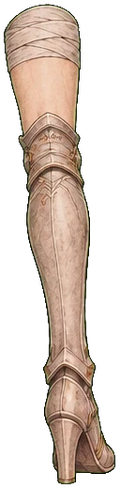
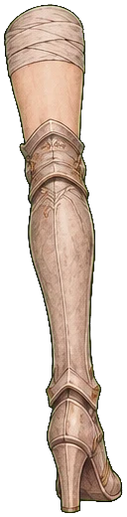
움직임 시험 C: 부위 뼈대 발끝을 뒷모습 그림 아래 끝(1100)에 맞춤
- 높이 기준을 '모든 부위의 아래 끝'(성검 끝)에서 '다리 그림 아래 끝'으로 바꿔
  다시 만듦(tools/anim_parts.py). 배율 0.938 → 0.995, 세라피나가 뒷모습과
  같은 바닥에 선다(성검 끝은 발보다 조금 아래).

check-scripts 42 ok · test_rules 88 통과 · 헤드리스 처음부터 1경로(--nosave --anim=c) 에러 0

Claude-Session: https://claude.ai/code/session_01NR5CTnMmGTt51p3uyypVUS

diff --git a/tools/anim_parts.py b/tools/anim_parts.py
@@ -84,9 +84,9 @@ def main():
         # 배율이 있으면 위 가운데를 기준으로 줄인다
         pos = (x0 + p['off'][0] + (w - w * sc) / 2.0, y0 + p['off'][1])
         cut[name] = (img, pos, sc)
-    # 전체 높이: 머리 위 ~ 발끝 → 1100
+    # 전체 높이: 머리 위 ~ 발끝(다리 그림 아래 끝 — 성검 끝은 발보다 조금 아래로 내려가도 된다) → 1100
     top = min(c[1][1] for c in cut.values())
-    bottom = max(c[1][1] + c[0].size[1] * c[2] for c in cut.values())
+    bottom = max(cut[n][1][1] + cut[n][0].size[1] * cut[n][2] for n in ('leg_l', 'leg_r'))
     s = FRAME[1] / (bottom - top)
 
     def tf(x, y):
